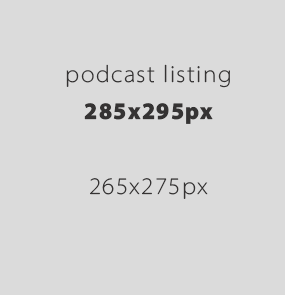
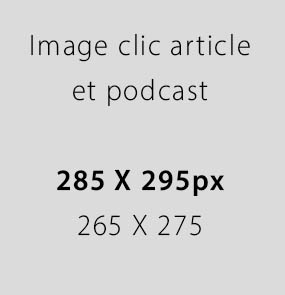
images
images upload + links + class

diff --git a/styleguide.html b/styleguide.html
@@ -23,6 +23,36 @@
   <link rel="stylesheet" href="css/styles.css">
   <link rel="stylesheet" href="style-guide-utilities/css/style-guide.css">
 
+  <!-- IMAGES
+  –––––––––––––––––––––––––––––––––––––––––––––––––– -->
+    <figure class="ill_principale_article">
+      <img src="images/ill_principale_article.jpg" alt="Principale image pour les articles">
+    </figure>
+
+    <figure class="ill_secondaire_article">
+      <img src="images/ill_secondaire_article.jpg" alt="Petite image pour les articles">
+    </figure>
+
+    <figure class="ill_tertiaire_article">
+      <img src="images/ill_tertiaire_article.jpg" alt="Grande image pour les articles">
+    </figure>
+
+    <figure class="ill_liste_article">
+      <img src="images/ill_liste_article.jpg" alt="Image clic article et podcast">
+    </figure>
+
+    <figure class="ill_bio_auteur">
+      <img src="images/ill_bio_auteur.jpg" alt="Image bio auteur">
+    </figure>
+
+    <figure class="logo">
+      <img src="images/logo.svg" alt="Image logo">
+    </figure>
+
+    <figure class="ill_web_talk">
+      <img src="images/ill_web_talk.jpg" alt="Image logo hero">
+    </figure>
+
   <!-- Favicon
   –––––––––––––––––––––––––––––––––––––––––––––––––– -->
   <link rel="icon" type="image/png" href="images/favicon-16.png">

diff --git a/css/images.css b/css/images.css
@@ -1,8 +1,36 @@
 
+img {
+  width : 100%;
+}
+
 .article-illustration {
   max-width: 600px;
 }
 
-.article-illustration img {
-  width : 100%;
+.ill_principale_article {
+  max-width: 470px;
+}
+
+.ill_secondaire_article {
+  max-width: 260px;
+}
+
+.ill_tertiaire_article {
+  max-width: 520px;
+}
+
+.ill_liste_article {
+  max-width: 285px;
+}
+
+.ill_bio_auteur {
+  max-width: 145px;
+}
+
+.logo {
+  max-width: 180px;
+}
+
+.ill_web_talk {
+  max-width: 580px;
 }
